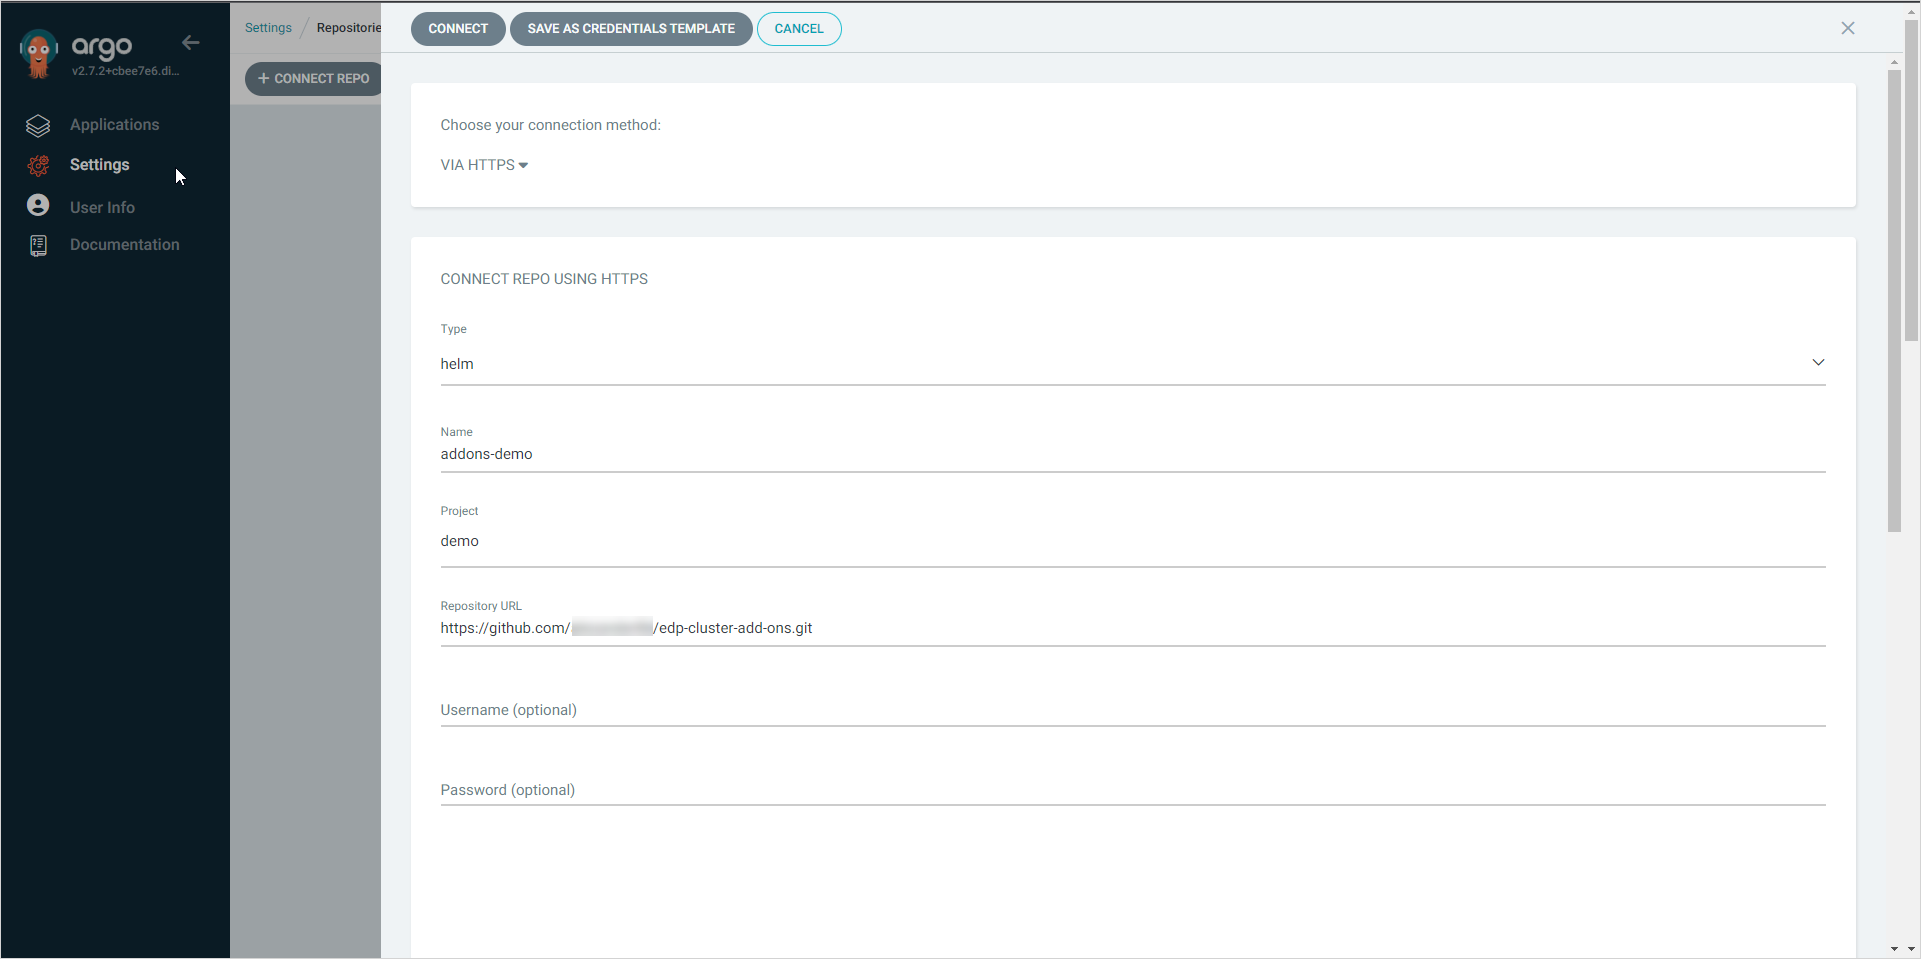
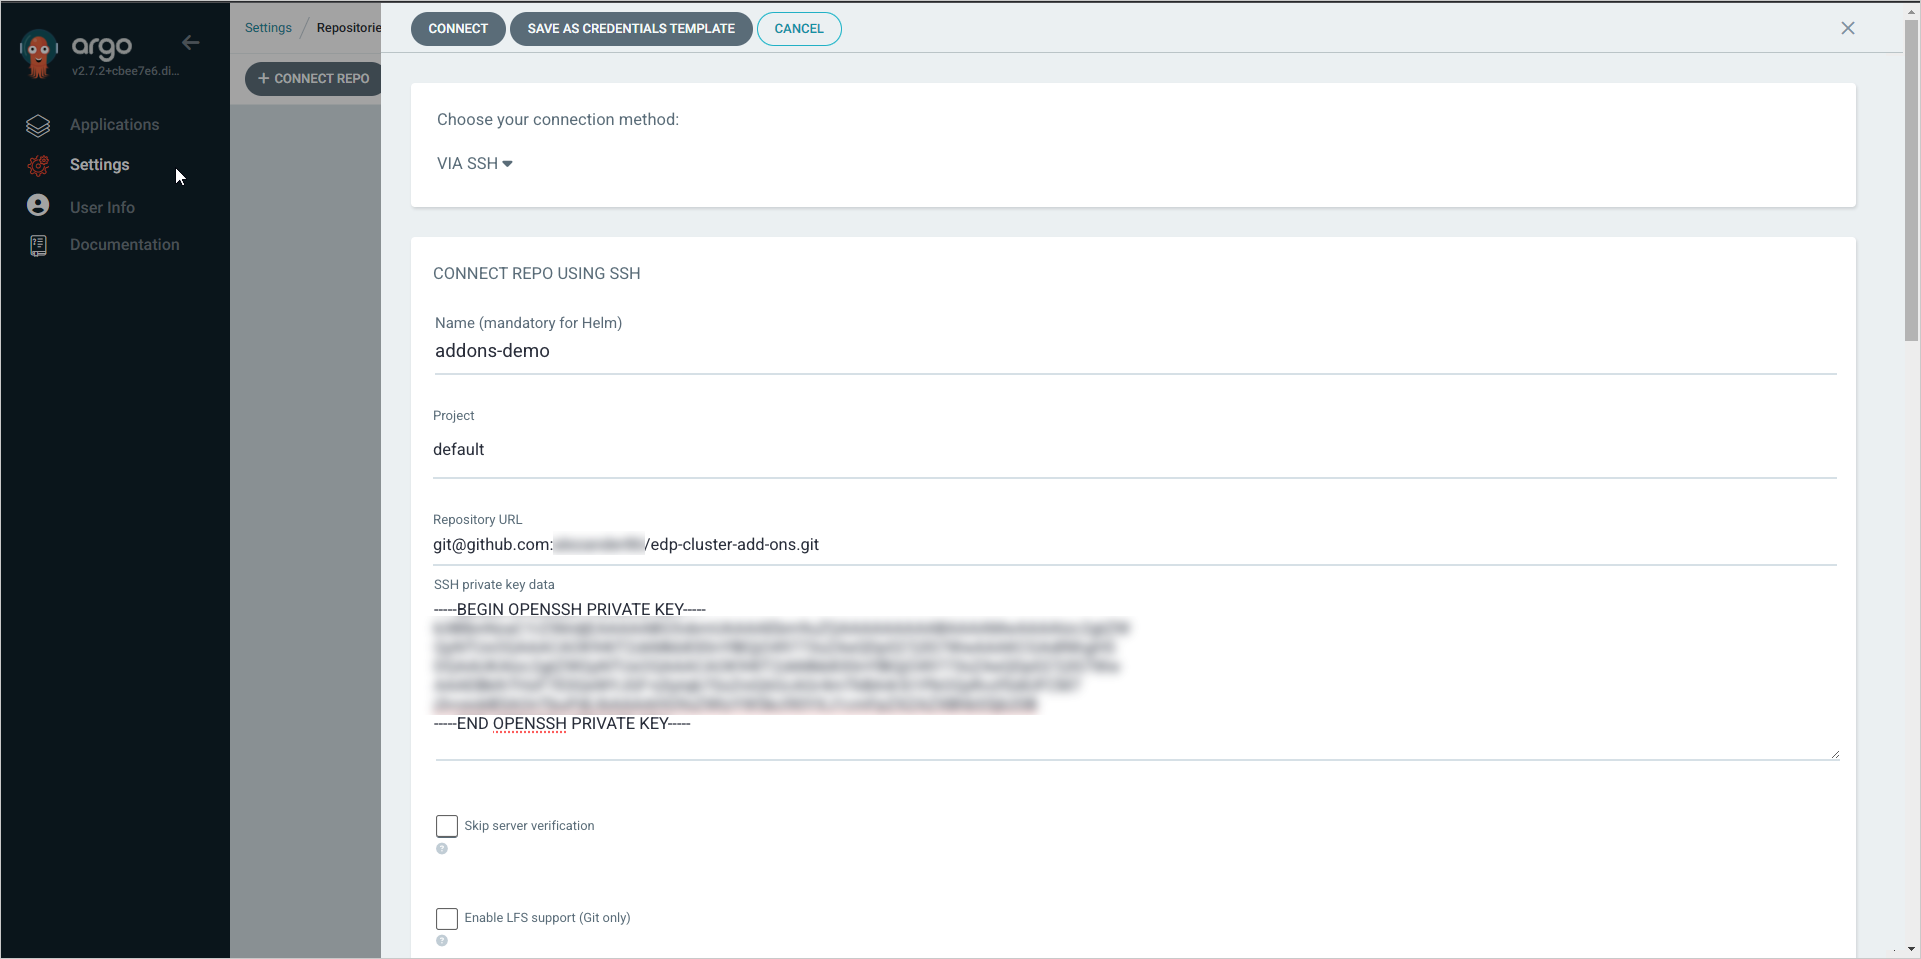
docs: Refactor cluster addons approach

diff --git a/docs/operator-guide/add-ons-overview.md b/docs/operator-guide/add-ons-overview.md
@@ -35,37 +35,37 @@ To enable Add-Ons, it is necessary to have the configured Argo CD, and connect a
 
 2. Provide the parameter values for the values.yaml files of the desired Add-Ons you are going to install.
 
-3. Navigate to **Argo CD** -> **Settings** -> **Repositories**. Connect your forked repository where you have the values.yaml files changed by clicking the **+ Connect repo** button:
+3. Navigate to **Argo CD** -> **Settings** -> **Repositories**. Connect your forked repository where you have the values.yaml files changed by clicking the **+ CONNECT REPO** button:
 
     ![Connect the forked repository](../assets/operator-guide/connect_repo.png "Connect the forked repository")
 
-4. In the appeared window, fill in the following fields and click the **Connect** button:
+4. In the appeared window, fill in the following fields and click the **CONNECT** button:
 
-    * Name - select the namespace where the project is going to be deployed;
-    * Choose your connection method - choose Via SSH;
-    * Type - choose Helm;
-    * Repository URL - enter the URL of your forked repository.
+    * Choose your connection method - `VIA SSH`;
+    * Name - `addons-demo` (optional);
+    * Project - select project;
+    * Repository URL - enter the `ssh URL` of your forked repository (git@github.com:example/edp-cluster-add-ons.git);
 
     ![Repository parameters](../assets/operator-guide/argo_cd_repo_fields.png "Repository parameters")
 
-5. As soon as the repository is connected, the new item in the repository list will appear:
+5. As soon as the repository is connected, the new item will appear in the repository list:
 
     ![Connected repository](../assets/operator-guide/connected_repo.png "Connected repository")
 
-6. Navigate to **Argo CD** -> **Applications**. Click the **+ New app** button:
+6. Navigate to **Argo CD** -> **Applications**. Click the **+ NEW APP** button:
 
     ![Adding Argo CD application](../assets/operator-guide/argo_cd_add_app.png "Adding Argo CD application")
 
-7. Fill in the required fields:
+7. Fill in the required fields and click **CREATE** button:
 
     * Application Name - addons-demo;
     * Project name - select the namespace where the project is going to be deployed;
-    * Sync policy - select **Manual**;
+    * Sync policy - `Manual`;
     * Repository URL - enter the URL of your forked repository;
-    * Revision - **Head**;
-    * Path - select **chart**;
-    * Cluster URL - enter the URL of your cluster;
-    * Namespace - enter the namespace which must be equal to the **Project name** field.
+    * Revision - `HEAD`;
+    * Path - `chart`;
+    * Cluster URL - select `URL` or cluster Name;
+    * Namespace - enter the namespace which must be equal to the **Project name** field;
 
 8. As soon as the repository is synchronized, the list of applications that can be installed by Add-Ons will be shown:
 
@@ -110,25 +110,33 @@ The list of the available Add-Ons:
 |Name|Description|Default|
 |:-|:-|:-:|
 |Argo CD|A GitOps continuous delivery tool that helps automate the deployment, configuration, and lifecycle management of applications in Kubernetes clusters.|false|
-|AWS EFS CSI Driver|A Container Storage Interface (CSI) driver that enables the dynamic provisioning of Amazon Elastic File System (EFS) volumes in Kubernetes clusters.|true|
-|Cert Manager|A native Kubernetes certificate management controller that automates the issuance and renewal of TLS certificates.|true|
-|DefectDojo|A security vulnerability management tool that allows tracking and managing security findings in applications.|true|
-|DependencyTrack|A Software Composition Analysis (SCA) platform that helps identify and manage open-source dependencies and their associated vulnerabilities.|true|
-|KubeRocketCI|An internal platform created by EPAM to enhance software delivery processes using DevOps principles and tools.|false|
-|Extensions OIDC|KubeRocketCI Helm chart to provision OIDC clients for different Add-Ons using EDP Keycloak Operator.|true|
-|External Secrets|A Kubernetes Operator that fetches secrets from external secret management systems and injects them as Kubernetes Secrets.|true|
+|AWS EFS CSI Driver|A Container Storage Interface (CSI) driver that enables the dynamic provisioning of Amazon Elastic File System (EFS) volumes in Kubernetes clusters.|false|
+|Cert Manager|A native Kubernetes certificate management controller that automates the issuance and renewal of TLS certificates.|false|
+|Capsule|A multi-tenancy solution for Kubernetes clusters that provides each tenant with a dedicated namespace where they can freely run their workloads with resource quotas.|false|
+|Capsule tenant|A specific tenant within the Capsule multi-tenancy solution. Each tenant has its own isolated environment within the Kubernetes cluster.|false|
+|DefectDojo|A security vulnerability management tool that allows tracking and managing security findings in applications.|false|
+|DependencyTrack|A Software Composition Analysis (SCA) platform that helps identify and manage open-source dependencies and their associated vulnerabilities.|false|
+|KubeRocketCI(EDP)|An internal platform created by EPAM to enhance software delivery processes using DevOps principles and tools.|false|
+|Extensions OIDC|KubeRocketCI Helm chart to provision OIDC clients for different Add-Ons using EDP Keycloak Operator.|false|
+|External Secrets|A Kubernetes Operator that fetches secrets from external secret management systems and injects them as Kubernetes Secrets.|false|
 |Fluent Bit|A lightweight and efficient log processor and forwarder that collects and routes logs from various sources in Kubernetes clusters.|false|
-|Harbor|A cloud-native container image registry that provides support for vulnerability scanning, policy-based image replication, and more.|true|
-|Nginx ingress|An Ingress controller that provides external access to services running within a Kubernetes cluster using Nginx as the underlying server.|true|
-|Jaeger Operator|An operator for deploying and managing Jaeger, an end-to-end distributed tracing system, in Kubernetes clusters.|true|
-|Keycloak|An open-source Identity and Access Management (IAM) solution that enables authentication, authorization, and user management in Kubernetes clusters.|true|
+|Harbor|A cloud-native container image registry that provides support for vulnerability scanning, policy-based image replication, and more.|false|
+|Ingress nginx|An Ingress controller that provides external access to services running within a Kubernetes cluster using Nginx as the underlying server.|false|
+|Jaeger Operator|An operator for deploying and managing Jaeger, an end-to-end distributed tracing system, in Kubernetes clusters.|false|
+|Keycloak|An open-source Identity and Access Management (IAM) solution that enables authentication, authorization, and user management in Kubernetes clusters.|false|
 |Keycloak PostgreSQL|A PostgreSQL database operator that simplifies the deployment and management of PostgreSQL instances in Kubernetes clusters.|false|
-|MinIO Operator|An operator that simplifies the deployment and management of MinIO, a high-performance object storage server compatible with Amazon S3, in Kubernetes clusters.|true|
-|OpenSearch|A community-driven, open-source search and analytics engine that provides scalable and distributed search capabilities for Kubernetes clusters.|true|
-|OpenTelemetry Operator|An operator for automating the deployment and management of OpenTelemetry, a set of observability tools for capturing, analyzing, and exporting telemetry data.|true|
-|PostgreSQL Operator|An operator for running and managing PostgreSQL databases in Kubernetes clusters with high availability and scalability.|true|
-|Prometheus Operator|An operator that simplifies the deployment and management of Prometheus, a monitoring and alerting toolkit, in Kubernetes clusters.|true|
-|Redis Operator|An operator for managing Redis, an in-memory data structure store, in Kubernetes clusters, providing high availability and horizontal scalability.|true|
-|StorageClass|A Kubernetes resource that provides a way to define different classes of storage with different performance characteristics for persistent volumes.|true|
-|Tekton|A flexible and cloud-native framework for building, testing, and deploying applications using Kubernetes-native workflows.|true|
-|Vault|An open-source secrets management solution that provides secure storage, encryption, and access control for sensitive data in Kubernetes clusters.|true|
+|MinIO Operator|An operator that simplifies the deployment and management of MinIO, a high-performance object storage server compatible with Amazon S3, in Kubernetes clusters.|false|
+|Nexus|Serves as a repository manager, enabling the proxying, aggregation, and management of dependencies, as well as the storage of artifacts.|false|
+|Nexus Operator|A tool designed to streamline the handling of Nexus resources and configurations, facilitating the proxying, collection, and management of dependencies within a repository manager.|false|
+|OpenSearch|A community-driven, open-source search and analytics engine that provides scalable and distributed search capabilities for Kubernetes clusters.|false|
+|OpenTelemetry Operator|An operator for automating the deployment and management of OpenTelemetry, a set of observability tools for capturing, analyzing, and exporting telemetry data.|false|
+|PostgreSQL Operator|An operator for running and managing PostgreSQL databases in Kubernetes clusters with high availability and scalability.|false|
+|Report Portal|An powered test automation dashboard that allows you to analyze test results, identify issues, and track testing progress.|false|
+|Prometheus Operator|An operator that simplifies the deployment and management of Prometheus, a monitoring and alerting toolkit, in Kubernetes clusters.|false|
+|Redis Operator|An operator for managing Redis, an in-memory data structure store, in Kubernetes clusters, providing high availability and horizontal scalability.|false|
+|Sonar|A comprehensive open-source platform dedicated to the continuous evaluation of code quality, automatically scrutinizing code to identify bugs, code smells, and security vulnerabilities.|false|
+|Sonar Operator|An operator that simplifies the management and configuration of SonarQube.|false|
+|StorageClass|A Kubernetes resource that provides a way to define different classes of storage with different performance characteristics for persistent volumes.|false|
+|Tekton|A flexible and cloud-native framework for building, testing, and deploying applications using Kubernetes-native workflows.|false|
+|Tekton-cache||false|
+|Vault|An open-source secrets management solution that provides secure storage, encryption, and access control for sensitive data in Kubernetes clusters.|false|

diff --git a/versioned_docs/version-3.9.0/operator-guide/add-ons-overview.md b/versioned_docs/version-3.9.0/operator-guide/add-ons-overview.md
@@ -35,37 +35,37 @@ To enable Add-Ons, it is necessary to have the configured Argo CD, and connect a
 
 2. Provide the parameter values for the values.yaml files of the desired Add-Ons you are going to install.
 
-3. Navigate to **Argo CD** -> **Settings** -> **Repositories**. Connect your forked repository where you have the values.yaml files changed by clicking the **+ Connect repo** button:
+3. Navigate to **Argo CD** -> **Settings** -> **Repositories**. Connect your forked repository where you have the values.yaml files changed by clicking the **+ CONNECT REPO** button:
 
     ![Connect the forked repository](../assets/operator-guide/connect_repo.png "Connect the forked repository")
 
-4. In the appeared window, fill in the following fields and click the **Connect** button:
+4. In the appeared window, fill in the following fields and click the **CONNECT** button:
 
-    * Name - select the namespace where the project is going to be deployed;
-    * Choose your connection method - choose Via SSH;
-    * Type - choose Helm;
-    * Repository URL - enter the URL of your forked repository.
+    * Choose your connection method - `VIA SSH`;
+    * Name - `addons-demo` (optional);
+    * Project - select project;
+    * Repository URL - enter the `ssh URL` of your forked repository (git@github.com:example/edp-cluster-add-ons.git);
 
     ![Repository parameters](../assets/operator-guide/argo_cd_repo_fields.png "Repository parameters")
 
-5. As soon as the repository is connected, the new item in the repository list will appear:
+5. As soon as the repository is connected, the new item will appear in the repository list:
 
     ![Connected repository](../assets/operator-guide/connected_repo.png "Connected repository")
 
-6. Navigate to **Argo CD** -> **Applications**. Click the **+ New app** button:
+6. Navigate to **Argo CD** -> **Applications**. Click the **+ NEW APP** button:
 
     ![Adding Argo CD application](../assets/operator-guide/argo_cd_add_app.png "Adding Argo CD application")
 
-7. Fill in the required fields:
+7. Fill in the required fields and click **CREATE** button:
 
     * Application Name - addons-demo;
     * Project name - select the namespace where the project is going to be deployed;
-    * Sync policy - select **Manual**;
+    * Sync policy - `Manual`;
     * Repository URL - enter the URL of your forked repository;
-    * Revision - **Head**;
-    * Path - select **chart**;
-    * Cluster URL - enter the URL of your cluster;
-    * Namespace - enter the namespace which must be equal to the **Project name** field.
+    * Revision - `HEAD`;
+    * Path - `chart`;
+    * Cluster URL - select `URL` or cluster Name;
+    * Namespace - enter the namespace which must be equal to the **Project name** field;
 
 8. As soon as the repository is synchronized, the list of applications that can be installed by Add-Ons will be shown:
 
@@ -110,25 +110,33 @@ The list of the available Add-Ons:
 |Name|Description|Default|
 |:-|:-|:-:|
 |Argo CD|A GitOps continuous delivery tool that helps automate the deployment, configuration, and lifecycle management of applications in Kubernetes clusters.|false|
-|AWS EFS CSI Driver|A Container Storage Interface (CSI) driver that enables the dynamic provisioning of Amazon Elastic File System (EFS) volumes in Kubernetes clusters.|true|
-|Cert Manager|A native Kubernetes certificate management controller that automates the issuance and renewal of TLS certificates.|true|
-|DefectDojo|A security vulnerability management tool that allows tracking and managing security findings in applications.|true|
-|DependencyTrack|A Software Composition Analysis (SCA) platform that helps identify and manage open-source dependencies and their associated vulnerabilities.|true|
-|KubeRocketCI|An internal platform created by EPAM to enhance software delivery processes using DevOps principles and tools.|false|
-|Extensions OIDC|KubeRocketCI Helm chart to provision OIDC clients for different Add-Ons using EDP Keycloak Operator.|true|
-|External Secrets|A Kubernetes Operator that fetches secrets from external secret management systems and injects them as Kubernetes Secrets.|true|
+|AWS EFS CSI Driver|A Container Storage Interface (CSI) driver that enables the dynamic provisioning of Amazon Elastic File System (EFS) volumes in Kubernetes clusters.|false|
+|Cert Manager|A native Kubernetes certificate management controller that automates the issuance and renewal of TLS certificates.|false|
+|Capsule|A multi-tenancy solution for Kubernetes clusters that provides each tenant with a dedicated namespace where they can freely run their workloads with resource quotas.|false|
+|Capsule tenant|A specific tenant within the Capsule multi-tenancy solution. Each tenant has its own isolated environment within the Kubernetes cluster.|false|
+|DefectDojo|A security vulnerability management tool that allows tracking and managing security findings in applications.|false|
+|DependencyTrack|A Software Composition Analysis (SCA) platform that helps identify and manage open-source dependencies and their associated vulnerabilities.|false|
+|KubeRocketCI(EDP)|An internal platform created by EPAM to enhance software delivery processes using DevOps principles and tools.|false|
+|Extensions OIDC|KubeRocketCI Helm chart to provision OIDC clients for different Add-Ons using EDP Keycloak Operator.|false|
+|External Secrets|A Kubernetes Operator that fetches secrets from external secret management systems and injects them as Kubernetes Secrets.|false|
 |Fluent Bit|A lightweight and efficient log processor and forwarder that collects and routes logs from various sources in Kubernetes clusters.|false|
-|Harbor|A cloud-native container image registry that provides support for vulnerability scanning, policy-based image replication, and more.|true|
-|Nginx ingress|An Ingress controller that provides external access to services running within a Kubernetes cluster using Nginx as the underlying server.|true|
-|Jaeger Operator|An operator for deploying and managing Jaeger, an end-to-end distributed tracing system, in Kubernetes clusters.|true|
-|Keycloak|An open-source Identity and Access Management (IAM) solution that enables authentication, authorization, and user management in Kubernetes clusters.|true|
+|Harbor|A cloud-native container image registry that provides support for vulnerability scanning, policy-based image replication, and more.|false|
+|Ingress nginx|An Ingress controller that provides external access to services running within a Kubernetes cluster using Nginx as the underlying server.|false|
+|Jaeger Operator|An operator for deploying and managing Jaeger, an end-to-end distributed tracing system, in Kubernetes clusters.|false|
+|Keycloak|An open-source Identity and Access Management (IAM) solution that enables authentication, authorization, and user management in Kubernetes clusters.|false|
 |Keycloak PostgreSQL|A PostgreSQL database operator that simplifies the deployment and management of PostgreSQL instances in Kubernetes clusters.|false|
-|MinIO Operator|An operator that simplifies the deployment and management of MinIO, a high-performance object storage server compatible with Amazon S3, in Kubernetes clusters.|true|
-|OpenSearch|A community-driven, open-source search and analytics engine that provides scalable and distributed search capabilities for Kubernetes clusters.|true|
-|OpenTelemetry Operator|An operator for automating the deployment and management of OpenTelemetry, a set of observability tools for capturing, analyzing, and exporting telemetry data.|true|
-|PostgreSQL Operator|An operator for running and managing PostgreSQL databases in Kubernetes clusters with high availability and scalability.|true|
-|Prometheus Operator|An operator that simplifies the deployment and management of Prometheus, a monitoring and alerting toolkit, in Kubernetes clusters.|true|
-|Redis Operator|An operator for managing Redis, an in-memory data structure store, in Kubernetes clusters, providing high availability and horizontal scalability.|true|
-|StorageClass|A Kubernetes resource that provides a way to define different classes of storage with different performance characteristics for persistent volumes.|true|
-|Tekton|A flexible and cloud-native framework for building, testing, and deploying applications using Kubernetes-native workflows.|true|
-|Vault|An open-source secrets management solution that provides secure storage, encryption, and access control for sensitive data in Kubernetes clusters.|true|
+|MinIO Operator|An operator that simplifies the deployment and management of MinIO, a high-performance object storage server compatible with Amazon S3, in Kubernetes clusters.|false|
+|Nexus|Serves as a repository manager, enabling the proxying, aggregation, and management of dependencies, as well as the storage of artifacts.|false|
+|Nexus Operator|A tool designed to streamline the handling of Nexus resources and configurations, facilitating the proxying, collection, and management of dependencies within a repository manager.|false|
+|OpenSearch|A community-driven, open-source search and analytics engine that provides scalable and distributed search capabilities for Kubernetes clusters.|false|
+|OpenTelemetry Operator|An operator for automating the deployment and management of OpenTelemetry, a set of observability tools for capturing, analyzing, and exporting telemetry data.|false|
+|PostgreSQL Operator|An operator for running and managing PostgreSQL databases in Kubernetes clusters with high availability and scalability.|false|
+|Report Portal|An powered test automation dashboard that allows you to analyze test results, identify issues, and track testing progress.|false|
+|Prometheus Operator|An operator that simplifies the deployment and management of Prometheus, a monitoring and alerting toolkit, in Kubernetes clusters.|false|
+|Redis Operator|An operator for managing Redis, an in-memory data structure store, in Kubernetes clusters, providing high availability and horizontal scalability.|false|
+|Sonar|A comprehensive open-source platform dedicated to the continuous evaluation of code quality, automatically scrutinizing code to identify bugs, code smells, and security vulnerabilities.|false|
+|Sonar Operator|An operator that simplifies the management and configuration of SonarQube.|false|
+|StorageClass|A Kubernetes resource that provides a way to define different classes of storage with different performance characteristics for persistent volumes.|false|
+|Tekton|A flexible and cloud-native framework for building, testing, and deploying applications using Kubernetes-native workflows.|false|
+|Tekton-cache||false|
+|Vault|An open-source secrets management solution that provides secure storage, encryption, and access control for sensitive data in Kubernetes clusters.|false|
